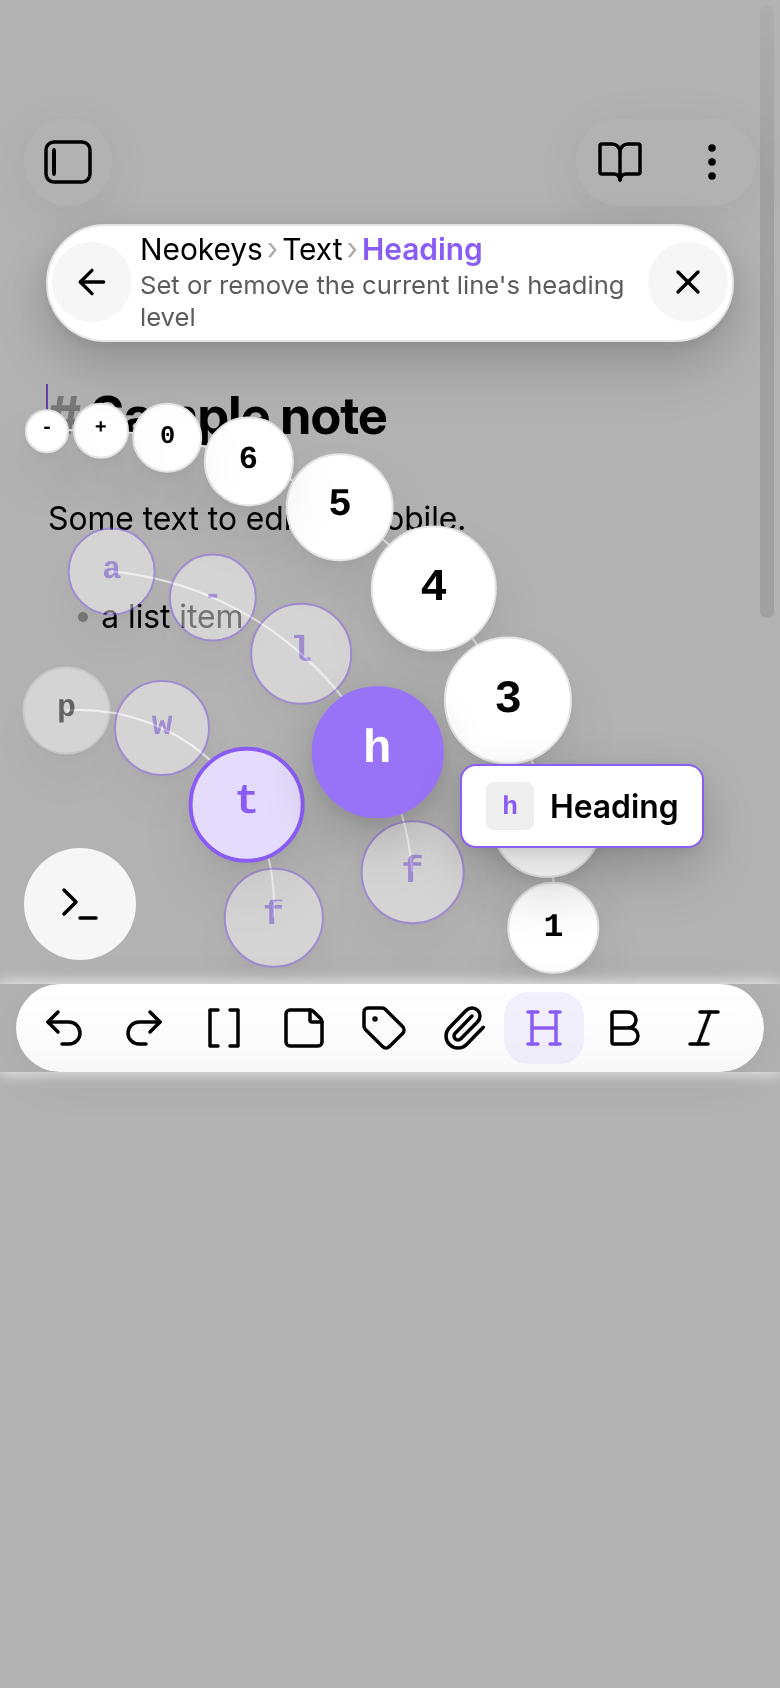
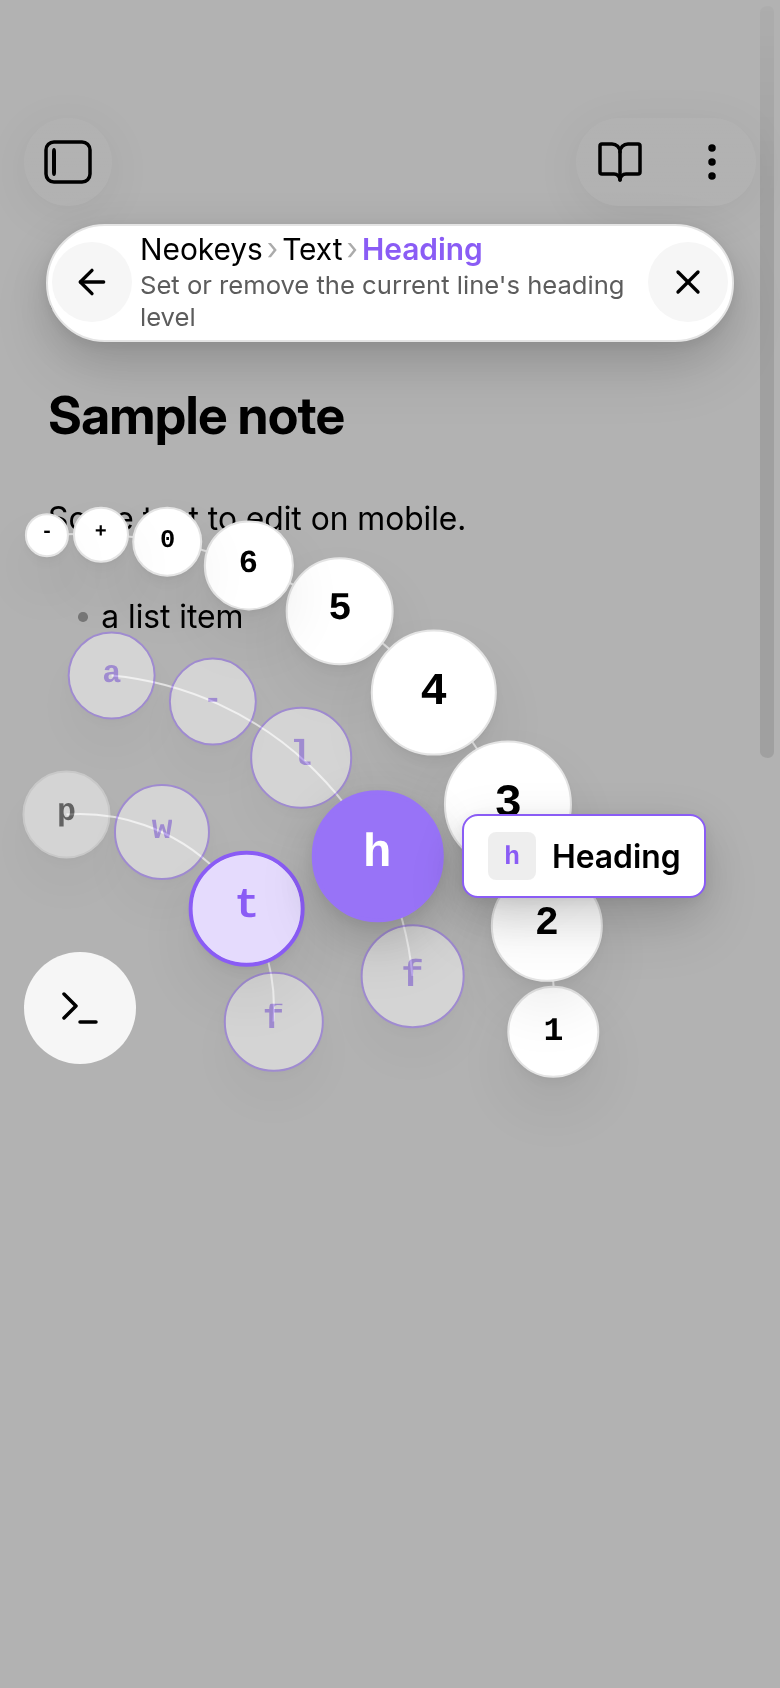
fix(dial): the thumb bubble stays beside the thumb on crowded rings, compact when the full form would cover other keys
The bubble weighs only the armed circle, the anchor and the armed circle's neighbours as keys it must not cover, and counts any other legible key it would hide so the compact form is tried first. Nearness costs more and the hysteresis is capped, so the bubble no longer lingers far from the thumb at ring ends. Retaken screenshots of the bubble at both ring ends.

Changed region(s): [[0.0, 0.2156, 0.9846, 0.6469]]

diff --git a/tests/dialDescription.test.ts b/tests/dialDescription.test.ts
@@ -1,5 +1,5 @@
-import { BUBBLE_MARGIN, bubbleNeedsShortForm, cardFits, cardTop, coveredCircles, NEAR_ENOUGH, placeBubble, preferShortBubble, type BubbleArea, type CoveredCircle } from "../src/dial/description";
-import { ANCHOR_RADIUS, DEFAULT_RING_PARAMS, edgeRoom, peakSize, planRings, ringParamsFor, ringSlots, slotPosition, type DialGeometry, type DialRingParams } from "../src/dial/layout";
+import { BUBBLE_MARGIN, bubbleNeedsShortForm, cardFits, cardTop, coveredCircles, NEAR_ENOUGH, placeBubble, preferShortBubble, type BubbleArea, type BubblePlacement, type CoveredCircle } from "../src/dial/description";
+import { ANCHOR_RADIUS, DEFAULT_DEAD_ZONE, DEFAULT_RING_PARAMS, DIAL_SWEEP_DEG, edgeRoom, hitTest, peakSize, planRings, ringParamsFor, ringSlots, slotPosition, type DialGeometry, type DialRingParams } from "../src/dial/layout";
 
 const AREA: BubbleArea = { left: 8, top: 166, right: 382, bottom: 836 };
 const ANCHOR = { x: 350, y: 804 };
@@ -64,15 +64,16 @@ describe("the bubble beside the thumb", () => {
 		expect(placed.hidden).toBeGreaterThan(0);
 	});
 
-	it("asks for a short bubble only when the full one hides a key that must stay or is not snug against the thumb, and takes it when it is better placed by a few tens of pixels", () => {
+	it("asks for a short bubble only when the full one hides a key or is not snug against the thumb, and takes it when it is better placed by a few tens of pixels", () => {
 		const at = { left: 0, top: 0 };
-		expect(bubbleNeedsShortForm({ ...at, cost: 1, away: 10, hidden: 0 })).toBe(false);
-		expect(bubbleNeedsShortForm({ ...at, cost: 1, away: NEAR_ENOUGH, hidden: 0 })).toBe(false);
-		expect(bubbleNeedsShortForm({ ...at, cost: 1, away: NEAR_ENOUGH + 1, hidden: 0 })).toBe(true);
-		expect(bubbleNeedsShortForm({ ...at, cost: 1, away: 0, hidden: 1 })).toBe(true);
-		const full = { ...at, cost: 2, away: 50, hidden: 0 };
-		expect(preferShortBubble(full, { ...at, cost: 0.2, away: 5, hidden: 0 })).toBe(true);
-		expect(preferShortBubble(full, { ...at, cost: 1.9, away: 45, hidden: 0 })).toBe(false);
+		expect(bubbleNeedsShortForm({ ...at, cost: 1, away: 10, hidden: 0, covered: 0 })).toBe(false);
+		expect(bubbleNeedsShortForm({ ...at, cost: 1, away: NEAR_ENOUGH, hidden: 0, covered: 0 })).toBe(false);
+		expect(bubbleNeedsShortForm({ ...at, cost: 1, away: NEAR_ENOUGH + 1, hidden: 0, covered: 0 })).toBe(true);
+		expect(bubbleNeedsShortForm({ ...at, cost: 1, away: 0, hidden: 1, covered: 0 })).toBe(true);
+		expect(bubbleNeedsShortForm({ ...at, cost: 1, away: 0, hidden: 0, covered: 1 })).toBe(true);
+		const full = { ...at, cost: 2, away: 50, hidden: 0, covered: 0 };
+		expect(preferShortBubble(full, { ...at, cost: 0.2, away: 5, hidden: 0, covered: 0 })).toBe(true);
+		expect(preferShortBubble(full, { ...at, cost: 1.9, away: 45, hidden: 0, covered: 0 })).toBe(false);
 	});
 
 	it("keeps clear of the thumb's own circle whatever else is around, even with no room beside it", () => {
@@ -174,8 +175,8 @@ describe("the bubble beside the thumb", () => {
 			return { corner, anchor: { x: anchorX, y: anchorY }, bounds: { left: MARGIN, top: topInset + 44 + 67 + MARGIN, right: width - MARGIN, bottom: anchorY + ANCHOR_RADIUS + (EDGE - MARGIN) } };
 		}
 
-		/** How far from the armed circle's rim the bubble may be: a circle's width or so. */
-		const BESIDE_GAP = 50;
+		/** How far from the armed circle's rim the bubble may be: at the default circle size a bit more than half a circle's width, a little more with the larger or the smaller circles' rings. */
+		const besideGap = (params: DialRingParams): number => (params.itemSize === DEFAULT_RING_PARAMS.itemSize ? 40 : 50);
 
 		const cases: [string, DialGeometry][] = [
 			["390x844, keyboard down", phone(390, 844, "bottom-right", 0, 47)],
@@ -207,8 +208,9 @@ describe("the bubble beside the thumb", () => {
 			return { thumb: slotPosition(armed, geometry, rings), half: armed.size / 2, circles: coveredCircles(view, geometry.anchor), area };
 		}
 
-		const FULL = { width: 215, height: 62 };
-		const SHORT = { width: 150, height: 40 };
+		// The largest the bubble measures in Obsidian (a long description wrapped to two lines) and a long label's short form.
+		const FULL = { width: 220, height: 78 };
+		const SHORT = { width: 150, height: 42 };
 		/** What the DOM layer does: the full bubble, and the short one where the full one hides a key that must stay or sits away from the thumb, if that does better. */
 		function chooseBubble(thumb: { x: number; y: number }, half: number, area: BubbleArea, circles: CoveredCircle[], anchor: { x: number; y: number }) {
 			let box = FULL;
@@ -227,7 +229,8 @@ describe("the bubble beside the thumb", () => {
 			const problems: string[] = [];
 			for (const params of [DEFAULT_RING_PARAMS, ringParamsFor(56, { peak: 1.5 }), ringParamsFor(40, { peak: 1 })]) {
 				const counts = [4, 5, 9];
-				for (const box of [FULL, SHORT]) {
+				// The boxes as Obsidian measures a short description's bubble and its short form; the larger one below is for the tests of nearness, where a small phone's room is not the point.
+				for (const box of [{ width: 215, height: 62 }, { width: 150, height: 40 }]) {
 					for (let level = 0; level < counts.length; level++) {
 						for (let index = 0; index < counts[level]; index++) {
 							const around = scene(geometry, params, counts, level, index);
@@ -247,7 +250,7 @@ describe("the bubble beside the thumb", () => {
 			expect(problems.slice(0, 6)).toEqual([]);
 		});
 
-		it.each(cases)("%s: the bubble is always beside the thumb, as the DOM layer chooses its form: within 50px of the armed circle's rim at every item of every ring, the rings of a 22 item File group and of the default keymap included", (_name, geometry) => {
+		it.each(cases)("%s: the bubble is always beside the thumb, as the DOM layer chooses its form: within 40px of the armed circle's rim at every item of every ring (50px with the larger and smaller circles), the rings of a 22 item File group and of the default keymap included", (_name, geometry) => {
 			const problems: string[] = [];
 			for (const params of [DEFAULT_RING_PARAMS, ringParamsFor(56, { peak: 1.5 }), ringParamsFor(40, { peak: 1 })]) {
 				for (const counts of [[4, 5, 9], [8, 22], [6, 18, 12], [6, 24]]) {
@@ -259,8 +262,55 @@ describe("the bubble beside the thumb", () => {
 							const { placed, box } = chooseBubble(thumb, half, area, circles, geometry.anchor);
 							const gap = distanceFrom(thumb, placed, box) - half;
 							const what = `${params.itemSize}px, counts ${counts.join("/")}, ring ${level} item ${index}`;
-							if (gap > BESIDE_GAP) problems.push(`${what}: the bubble is ${gap.toFixed(0)}px from the armed circle`);
+							if (gap > besideGap(params)) problems.push(`${what}: the bubble is ${gap.toFixed(0)}px from the armed circle`);
 						}
+					}
+				}
+			}
+			expect(problems.slice(0, 6)).toEqual([]);
+		});
+
+		it.each(cases)("%s: sliding the finger along a ring and back, with the bubble keeping its last spot while it is nearly as good, never leaves it far from the thumb", (_name, geometry) => {
+			const problems: string[] = [];
+			const params = DEFAULT_RING_PARAMS;
+			for (const counts of [[4, 5, 9], [4, 5], [8, 22], [6, 12, 9]]) {
+				const rings = planRings(geometry, params, counts);
+				const peak = peakSize(geometry, params);
+				const room = edgeRoom(geometry);
+				if (rings.length === 0) continue;
+				const level = Math.min(counts.length, rings.length) - 1;
+				const area: BubbleArea = { left: BUBBLE_MARGIN, top: geometry.bounds.top - MARGIN + BUBBLE_MARGIN, right: geometry.bounds.right + MARGIN - BUBBLE_MARGIN, bottom: geometry.bounds.bottom };
+				const degrees = Array.from({ length: 89 }, (_, i) => i + 1);
+				for (const sweep of [degrees, [...degrees].reverse()]) {
+					let previous: BubblePlacement | null = null;
+					for (const angle of sweep) {
+						const slots = rings.flatMap((ring, ringIndex) => ringSlots(ringIndex, ring, counts[ringIndex], params, peak, ringIndex === level ? angle / DIAL_SWEEP_DEG : 0.5, room));
+						const finger = slotPosition({ ring: level, index: 0, angleDeg: angle, size: 0, weight: 0, bead: false, presence: 1 }, geometry, rings);
+						const armedIndex = hitTest(finger, geometry, rings, slots, DEFAULT_DEAD_ZONE, params.itemSize, null);
+						if (armedIndex === null) continue;
+						const armed = slots[armedIndex];
+						const view = rings.map((_, ringIndex) => ({
+							items: slots
+								.filter((slot) => slot.ring === ringIndex)
+								.map((slot) => {
+									const at = slotPosition(slot, geometry, rings);
+									return { x: at.x, y: at.y, size: slot.size, presence: slot.presence, armed: slot === armed };
+								}),
+						}));
+						const thumb = slotPosition(armed, geometry, rings);
+						const circles = coveredCircles(view, geometry.anchor);
+						let box = FULL;
+						let placed = placeBubble(thumb, armed.size / 2, box, area, circles, geometry.anchor, previous);
+						if (bubbleNeedsShortForm(placed)) {
+							const shorter = placeBubble(thumb, armed.size / 2, SHORT, area, circles, geometry.anchor, previous);
+							if (preferShortBubble(placed, shorter)) {
+								placed = shorter;
+								box = SHORT;
+							}
+						}
+						previous = placed;
+						const gap = distanceFrom(thumb, placed, box) - armed.size / 2;
+						if (gap > 45) problems.push(`counts ${counts.join("/")} at ${angle}°, item ${armed.index}: ${gap.toFixed(0)}px from the armed circle`);
 					}
 				}
 			}

diff --git a/src/dial/description.ts b/src/dial/description.ts
@@ -32,6 +32,8 @@ export interface BubblePlacement {
 	top: number;
 	/** How many of the circles that must stay readable (weight of 1 or more: the thumb's neighbours and the anchor) the bubble hides at this spot, by coming within a key's reach of their centres; the DOM layer drops to a shorter bubble when this is not zero. */
 	hidden: number;
+	/** How many other circles that show a key the bubble hides at this spot: the DOM layer tries the short form, which covers less, when this is not zero. */
+	covered: number;
 	/** What the spot cost: the DOM layer compares the full bubble's with the short form's. */
 	cost: number;
 	/** How far past the thumb's keep-out circle and gap the bubble is, in pixels: beyond `BESIDE_REACH` it is no longer beside the thumb. */
@@ -82,6 +84,8 @@ const COST_PER_FAR_PX = 5 / 100;
 const COST_COVER = 2;
 const COST_HAND = 2.5;
 const COST_PER_MOVED_PX = 0.6 / 100;
+/** The most moving can cost, so that a bubble left far from the thumb by an earlier spot does not stay there for want of a near one being worth the jump: a few pixels of distance outweigh it. */
+const COST_MOVED_CAP = 0.25;
 /** Between spots that are otherwise as good, the one away from the hand wins: the thumb is on that side. */
 const COST_TOWARD_HAND = 0.4;
 /** A circle's key is hidden when the bubble comes this close to its centre. */
@@ -160,7 +164,7 @@ export function placeBubble(
 		right: Math.max(area.left, area.right - box.width),
 		bottom: Math.max(area.top, area.bottom - box.height),
 	};
-	let best: BubblePlacement = { left: room.left, top: room.top, cost: Number.POSITIVE_INFINITY, away: 0, hidden: 0 };
+	let best: BubblePlacement = { left: room.left, top: room.top, cost: Number.POSITIVE_INFINITY, away: 0, hidden: 0, covered: 0 };
 	/** Scores the spot, giving up as soon as it cannot beat the best so far (every cost term is at least 0). */
 	const consider = (left: number, top: number, direction: DialPoint | null): void => {
 		const rim = distanceToBox(thumb, left, top, box);
@@ -169,7 +173,7 @@ export function placeBubble(
 		if (rim < keepOut) cost += COST_ON_THUMB + (keepOut - rim) * COST_PER_PX_ON_THUMB;
 		else cost += Math.max(0, keepOut + BUBBLE_GAP - rim) * COST_PER_PX_SNUG;
 		if (direction) cost += COST_TOWARD_HAND * Math.max(0, direction.x * handward.x + direction.y * handward.y);
-		if (previous) cost += Math.hypot(left - previous.left, top - previous.top) * COST_PER_MOVED_PX;
+		if (previous) cost += Math.min(COST_MOVED_CAP, Math.hypot(left - previous.left, top - previous.top) * COST_PER_MOVED_PX);
 		if (cost >= best.cost) return;
 		for (const circle of circles) {
 			cost += circle.weight * coverage(circle, left, top, box) * COST_COVER;
@@ -178,7 +182,7 @@ export function placeBubble(
 			if (cost >= best.cost) return;
 		}
 		if (segmentDistanceToBox(thumb, hand, left, top, box) < HAND_PAD) cost += COST_HAND;
-		if (cost < best.cost - 1e-9) best = { left, top, cost, away, hidden: circles.filter((circle) => circle.weight >= WEIGHT_MUST_STAY / 2 && distanceToBox(circle, left, top, box) < KEY_CLEARANCE).length };
+		if (cost < best.cost - 1e-9) best = { left, top, cost, away, hidden: circles.filter((circle) => circle.weight >= WEIGHT_MUST_STAY / 2 && distanceToBox(circle, left, top, box) < KEY_CLEARANCE).length, covered: circles.filter((circle) => circle.weight > 0 && circle.weight < WEIGHT_MUST_STAY / 2 && circle.radius * 2 >= DIAL_LEGIBLE_SIZE && distanceToBox(circle, left, top, box) < KEY_CLEARANCE).length };
 	};
 	// First the spots snug against the thumb, in every direction and a few distances out: where the bubble belongs when there is room.
 	for (const extra of [0, 22, 48, 80]) {
@@ -253,7 +257,7 @@ export function preferShortBubble(full: BubblePlacement, short: BubblePlacement)
 	return short.cost + COST_SHORT_FORM < full.cost;
 }
 
-/** Whether the full bubble is worth trying a short one against: it hides a key that must stay, or it landed away from the thumb. */
+/** Whether the full bubble is worth trying a short one against: it hides a key, or it landed away from the thumb. */
 export function bubbleNeedsShortForm(full: BubblePlacement): boolean {
-	return full.hidden > 0 || full.away > NEAR_ENOUGH;
+	return full.hidden > 0 || full.covered > 0 || full.away > NEAR_ENOUGH;
 }

diff --git a/tests/dialLayout.test.ts b/tests/dialLayout.test.ts
@@ -473,7 +473,7 @@ describe("lensLayout under the finger", () => {
 		expect(worst.slice(0, 5)).toEqual([]);
 	});
 
-	it("never lets two circles on a ring overlap, at rest or with the finger anywhere, for any level its ring holds at the floor size, at any size and peak, never grows a circle the farther it is from the finger, and keeps the finger on a circle it grew", () => {
+	it("never lets two circles on a ring overlap: at rest for any level its ring holds at the floor size, and with the finger anywhere for any level at all (the far circles fade out), at any size and peak, never grows a circle the farther it is from the finger, and keeps the finger on a circle it grew", () => {
 		const violations: string[] = [];
 		const grid = Array.from({ length: 41 }, (_, i) => i / 40);
 		for (const itemSize of [40, 44, 56]) {
@@ -481,11 +481,12 @@ describe("lensLayout under the finger", () => {
 				const params = ringParamsFor(itemSize, { peak: peakFactor });
 				const peak = peakSize(PHONE, params);
 				for (const { radius, capacity } of planRings(PHONE, params, [4, 5, 9])) {
-					// Up to what the ring holds at the floor size; more circles than that overlap by necessity.
+					// At rest a ring holds its level without overlap only up to what fits at the floor size; with the finger on it, any level is held (the far circles fade out).
 					const floorPitch = (Math.asin((BEAD_FLOOR + 2) / (2 * radius)) * 2 * 180) / Math.PI;
 					const most = Math.min(25, 1 + Math.floor(90 / floorPitch + 1e-9));
-					for (let count = 1; count <= most; count++) {
+					for (let count = 1; count <= 34; count++) {
 						for (const focus of [null, ...grid]) {
+							if (focus === null && count > most) continue;
 							const layout = lensLayout(count, capacity, radius, params, peak, focus, 36);
 							const bad = overlapIn(layout, radius, 2 - 0.01);
 							if (bad) violations.push(`${count} at ${itemSize}px, peak ${peakFactor}, on r${radius} at focus ${focus}: ${bad}`);
@@ -498,6 +499,7 @@ describe("lensLayout under the finger", () => {
 								for (let i = 0; i + 1 < count; i++) {
 									const here = Math.abs(i - position);
 									const next = Math.abs(i + 1 - position);
+									if (layout.presences[i] < 1 || layout.presences[i + 1] < 1) continue;
 									if (here < next - 1e-9 && layout.sizes[i] < layout.sizes[i + 1] - 1e-6) violations.push(`${count} at ${itemSize}px, peak ${peakFactor}, on r${radius} at focus ${focus}: circle ${i + 1} (${layout.sizes[i + 1].toFixed(1)}px) is larger than the nearer circle ${i} (${layout.sizes[i].toFixed(1)}px)`);
 									if (next < here - 1e-9 && layout.sizes[i + 1] < layout.sizes[i] - 1e-6) violations.push(`${count} at ${itemSize}px, peak ${peakFactor}, on r${radius} at focus ${focus}: circle ${i} (${layout.sizes[i].toFixed(1)}px) is larger than the nearer circle ${i + 1} (${layout.sizes[i + 1].toFixed(1)}px)`);
 								}

diff --git a/tests/dialController.test.ts b/tests/dialController.test.ts
@@ -1403,6 +1403,37 @@ describe("DialController on a level too big for its ring", () => {
 		expect(controller.view().armed?.label).toBe("Item 24");
 	});
 
+	it("as an inner ring, with a group of it open outside, a level too big for its ring still has every item reachable by sliding along it, from the group out to both ends; a flick straight into the gone stretch lands on a circle that is there, never on a gone one", () => {
+		const lines = Array.from({ length: 16 }, (_, i) =>
+			i === 7 ? "  h:\n    title: Group H\n    items:\n      x: workspace:new-tab Child X\n      y: workspace:new-tab Child Y" : `  ${String.fromCharCode(97 + i + (i > 7 ? 1 : 0))}: workspace:new-tab Item ${i + 1}`,
+		);
+		const root = parseKeymapSource(`items:\n${lines.join("\n")}\n`);
+		const controller = new DialController(makeHost().host, () => PHONE);
+		controller.pressAnchor(root);
+		// Open the group: slide along the ring until it is armed, then the ring outside it is there and the root ring is an inner one.
+		for (let degrees = 0; degrees <= 90 && controller.view().armed?.label !== "Group H"; degrees += 1) controller.moveTo(onRing(degrees));
+		expect(controller.view().armed?.label).toBe("Group H");
+		expect(controller.view().rings).toHaveLength(2);
+		const reached = new Set<string>();
+		for (const sweep of [DEGREES, [...DEGREES].reverse()]) {
+			for (const degrees of sweep) {
+				controller.moveTo(onRing(degrees));
+				const armed = controller.view().armed;
+				if (armed) reached.add(armed.label);
+			}
+		}
+		// Every item of the root level has been under the finger, from the group out to either end.
+		expect([...reached].filter((label) => label.startsWith("Item")).sort()).toEqual(Array.from({ length: 16 }, (_, i) => i + 1).filter((n) => n !== 8).map((n) => `Item ${n}`).sort());
+		// A flick from one end to the other lands on a circle that is drawn, never on a gone one.
+		for (const degrees of [88, 2, 88, 45, 2]) {
+			controller.moveTo(onRing(degrees));
+			const armed = controller.view().armed;
+			if (!armed) continue;
+			const circle = controller.view().rings[0].items.find((item) => item.label === armed.label) ?? controller.view().rings[1]?.items.find((item) => item.label === armed.label);
+			expect(circle?.presence ?? 1).toBeGreaterThanOrEqual(0.5);
+		}
+	});
+
 	it("a tap on a dot of a level too big for its ring brings it into the lens, where it is whole and shows its key, instead of running it; a second tap runs it", () => {
 		const { root, controller, calls } = crowdedRoot(16);
 		controller.open(root);
